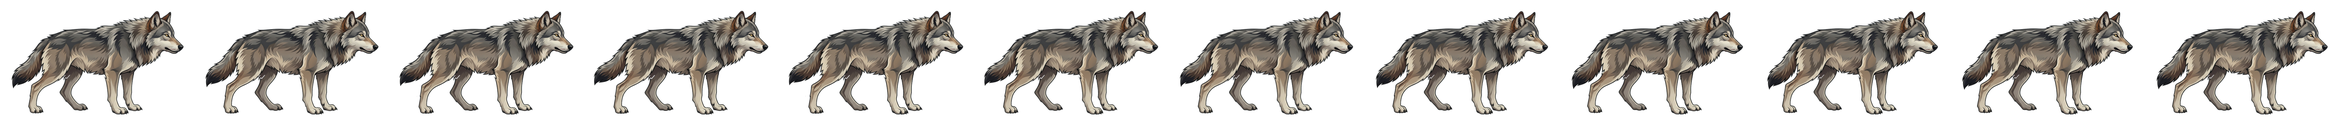
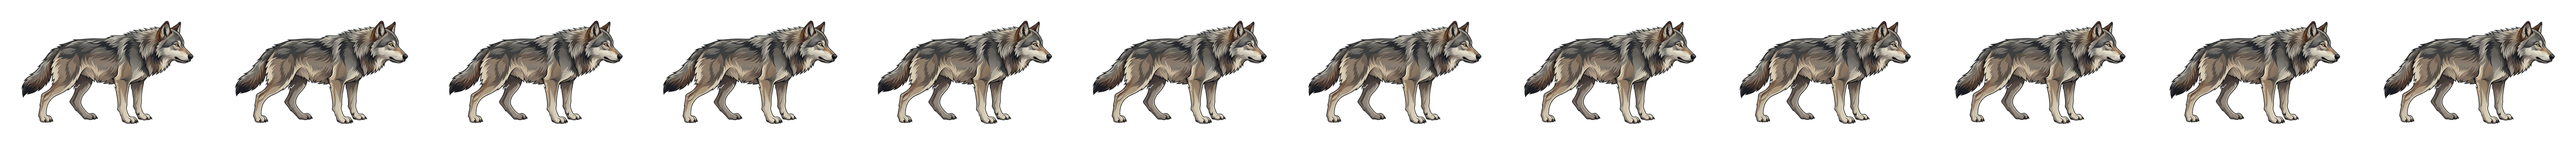
灰狼試作：撲咬加強（關鍵影格、蓄力更深、3 格撲出、壓縮伸展、殘影、咬中甩頭）；嘴裡改深褐並對準下顎，閉嘴不再露紅
Claude-Session: https://claude.ai/code/session_01HkqM82v9towmCBuEomSQC3

Changed region(s): [[0.0, 0.0938, 0.9983, 0.9062]]

diff --git a/arts/art_illustrated_test_2026-10-13/rig.py b/arts/art_illustrated_test_2026-10-13/rig.py
@@ -15,7 +15,8 @@ from PIL import Image, ImageDraw
 
 HERE = os.path.dirname(os.path.abspath(__file__))
 SCALE = 0.5
-PAD = 60          # 畫布四周的空間（原尺寸像素），撲咬往前衝時不會被切掉
+PAD = 120          # 畫布四周的空間（原尺寸像素），撲咬往前衝時不會被切掉
+STRETCH_CENTER = (560, 600)  # 腳底附近，伸縮時腳不會離地太多
 GRID = 14         # 網格間距（原尺寸像素）
 
 
@@ -43,7 +44,11 @@ def world_mats(bones, pose):
     for b in bones:  # 骨頭依父子順序排列
         local = rot_about(b.a, pose.get(b.name, 0.0))
         if b.parent is None:
-            mats[b.name] = translate(pose.get("root_dx", 0.0), pose.get("root_dy", 0.0)) @ local
+            # 壓縮與伸展：以身體中心為準縮放（root_sx 水平、root_sy 垂直）
+            cx, cy = STRETCH_CENTER
+            sx, sy = pose.get("root_sx", 1.0), pose.get("root_sy", 1.0)
+            stretch = translate(cx, cy) @ np.diag([sx, sy, 1.0]) @ translate(-cx, -cy)
+            mats[b.name] = translate(pose.get("root_dx", 0.0), pose.get("root_dy", 0.0)) @ stretch @ local
         else:
             mats[b.name] = mats[b.parent] @ local
     return mats
@@ -205,7 +210,7 @@ def wolf_rig(name="wolf_gray"):
         "fh": [(300, 392), (458, 392), (444, 470), (414, 520), (486, 560), (494, 648), (370, 648), (288, 520), (300, 450)],
         "nf": [(566, 384), (672, 384), (668, 500), (690, 560), (722, 585), (728, 648), (588, 648), (588, 480)],
         "ff": [(672, 384), (792, 384), (772, 500), (822, 648), (728, 648), (722, 585), (700, 560), (672, 500)],
-        "jaw": [(940, 238), (1000, 242), (1046, 238), (1042, 258), (1012, 268), (972, 270), (944, 258)],
+        "jaw": [(944, 240), (975, 247), (1005, 251), (1035, 249), (1048, 245), (1042, 258), (1010, 270), (985, 270), (958, 263), (944, 254)],
     }
 
     def mask_of(poly):
@@ -252,9 +257,11 @@ def wolf_rig(name="wolf_gray"):
     # 身體層：下顎的位置換成嘴裡的深色，下顎張開時才看得到
     body_img = img.copy()
     d = ImageDraw.Draw(body_img)
-    d.polygon([(944, 240), (1040, 240), (1030, 252), (990, 258), (950, 254)], fill=(70, 22, 24, 255))
-    for x in (1010, 1024):
-        d.polygon([(x, 240), (x + 6, 240), (x + 3, 250)], fill=(240, 236, 226, 255))
+    # 嘴裡：只填在下顎原本的位置（閉嘴時完全被下顎蓋住），顏色是接近黑的深褐，上排有兩顆犬齒
+    d.polygon([(946, 242), (975, 248), (1005, 252), (1035, 250), (1044, 247), (1038, 257), (1010, 267), (986, 267), (960, 261), (946, 253)],
+              fill=(34, 26, 25, 255))
+    for x in (1012, 1026):
+        d.polygon([(x, 249), (x + 6, 249), (x + 2, 259)], fill=(236, 230, 214, 255))
     body_small = np.asarray(body_img.resize(small.shape[1::-1], Image.LANCZOS)).astype(float) / 255.0
 
     head_only = lambda p: np.clip((p[:, 0] - 770) / 40, 0, 1)
@@ -323,28 +330,48 @@ def pose_walk(t):
     return q
 
 
+def keyframes(keys, t):
+    """keys：[(時間, 姿勢), ...]；兩個關鍵影格之間用緩入緩出內插。"""
+    for (t0, p0), (t1, p1) in zip(keys, keys[1:]):
+        if t0 <= t <= t1:
+            k = (t - t0) / (t1 - t0) if t1 > t0 else 1.0
+            k = k * k * (3 - 2 * k)
+            names = set(p0) | set(p1)
+            dv = lambda n: 1.0 if n in ("root_sx", "root_sy") else 0.0
+            return {n: p0.get(n, dv(n)) + (p1.get(n, dv(n)) - p0.get(n, dv(n))) * k for n in names}
+    return dict(keys[-1][1])
+
+
+def _legs(hind_t, hind_s, hind_f, front_u, front_l, front_p, far_k=0.85):
+    return {"nh_thigh": hind_t, "nh_shin": hind_s, "nh_foot": hind_f,
+            "fh_thigh": hind_t * far_k, "fh_shin": hind_s * far_k, "fh_foot": hind_f * far_k,
+            "nf_upper": front_u, "nf_lower": front_l, "nf_paw": front_p,
+            "ff_upper": front_u * far_k, "ff_lower": front_l * far_k, "ff_paw": front_p * far_k}
+
+
+BITE_KEYS = [
+    (0.00, {}),
+    # 蓄力：重心壓低往後、頭壓低盯著前方、尾巴放低
+    (0.32, dict(root_dx=-26, root_dy=16, root_sx=0.95, root_sy=1.0, hips=4, chest=7, head=10, tail1=-12, tail2=-6,
+                **_legs(-12, 22, -12, 16, -24, 8))),
+    # 起跳：後腿蹬直往後、前腿往前伸、前身抬高、嘴張大
+    (0.44, dict(root_dx=60, root_dy=-26, root_sx=1.12, root_sy=0.94, hips=-12, chest=-10, head=-4, jaw=40, tail1=-18, tail2=-12,
+                **_legs(34, -24, 34, -60, 24, 32))),
+    # 咬中：衝到最前、嘴猛然合上、頭往下壓
+    (0.54, dict(root_dx=104, root_dy=-4, root_sx=1.05, root_sy=0.97, hips=-6, chest=-2, head=8, jaw=2, tail1=-14, tail2=-8,
+                **_legs(26, -16, 22, -30, 12, 12))),
+    # 咬住甩頭
+    (0.64, dict(root_dx=98, root_dy=0, hips=-4, chest=0, head=-6, jaw=0, tail1=-10, tail2=-4,
+                **_legs(20, -10, 14, -20, 8, 6))),
+    (0.72, dict(root_dx=100, root_dy=0, hips=-4, chest=0, head=6, jaw=0, tail1=-8,
+                **_legs(18, -8, 12, -18, 6, 4))),
+    (1.00, {}),
+]
+
+
 def pose_bite(t):
-    """撲咬：先往後蓄力、再往前撲、張嘴咬、收回。"""
-    if t < 0.3:          # 蓄力：重心後移、頭壓低
-        k = t / 0.3
-        return {"root_dx": -14 * k, "root_dy": 6 * k, "hips": 2 * k, "head": 10 * k, "chest": 3 * k,
-                "nh_thigh": -6 * k, "fh_thigh": -6 * k, "nh_shin": 10 * k, "fh_shin": 10 * k,
-                "nf_upper": 8 * k, "ff_upper": 8 * k, "nf_lower": -8 * k, "ff_lower": -8 * k, "tail1": -6 * k}
-    if t < 0.6:          # 撲出：前身抬起前伸、嘴張開
-        k = (t - 0.3) / 0.3
-        e = math.sin(k * math.pi / 2)
-        return {"root_dx": -14 + 70 * e, "root_dy": 6 - 16 * e, "hips": 2 - 8 * e, "chest": 3 - 6 * e,
-                "head": 10 - 18 * e, "jaw": 34 * e,
-                "nh_thigh": -6 + 22 * e, "fh_thigh": -6 + 22 * e, "nh_shin": 10 - 16 * e, "fh_shin": 10 - 16 * e,
-                "nh_foot": 20 * e, "fh_foot": 20 * e,
-                "nf_upper": 8 - 48 * e, "ff_upper": 8 - 40 * e, "nf_lower": -8 + 30 * e, "ff_lower": -8 + 26 * e,
-                "nf_paw": 20 * e, "ff_paw": 20 * e, "tail1": -6 - 8 * e, "tail2": -10 * e}
-    k = (t - 0.6) / 0.4  # 咬合後落地收回
-    e = 1 - (1 - k) ** 2
-    b = pose_bite(0.5999)
-    out = {key: v * (1 - e) for key, v in b.items()}
-    out["jaw"] = 34 * max(0.0, 1 - k * 3)
-    return out
+    """撲咬：壓低蓄力 → 3 格內撲出（張大嘴、四肢伸展）→ 咬中猛然合嘴、甩頭 → 收回。"""
+    return keyframes(BITE_KEYS, t)
 
 
 def pose_hurt(t):
@@ -356,7 +383,7 @@ def pose_hurt(t):
             "tail1": 14 * k, "tail2": 18 * k}
 
 
-ACTIONS = {"idle": (pose_idle, 12), "walk": (pose_walk, 12), "bite": (pose_bite, 10), "hurt": (pose_hurt, 8)}
+ACTIONS = {"idle": (pose_idle, 12), "walk": (pose_walk, 12), "bite": (pose_bite, 16), "hurt": (pose_hurt, 8)}
 
 
 def tint(im, rgb, amount):
@@ -367,6 +394,21 @@ def tint(im, rgb, amount):
     mixed = Image.blend(im.convert("RGBA"), flat, amount)
     mixed.putalpha(a)
     return mixed
+
+
+def add_trails(frames, idx, fades=(0.38, 0.16)):
+    """撲出的那幾格，把前兩格淡淡疊在後面當殘影。"""
+    out = list(frames)
+    for i in idx:
+        base = Image.new("RGBA", frames[i].size, (0, 0, 0, 0))
+        for back, f in zip((2, 1), reversed(fades)):
+            if i - back >= 0:
+                g = frames[i - back].copy()
+                g.putalpha(g.split()[3].point(lambda v, f=f: int(v * f)))
+                base.alpha_composite(g)
+        base.alpha_composite(frames[i])
+        out[i] = base
+    return out
 
 
 def main(name="wolf_gray"):
@@ -383,6 +425,8 @@ def main(name="wolf_gray"):
             if act == "hurt":
                 im = tint(im, (200, 40, 30), 0.35 * max(0.0, 1 - t * 3))
             frames.append(im)
+        if act == "bite":
+            frames = add_trails(frames, [i for i in range(n) if 0.36 <= i / n <= 0.56])
         w, h = frames[0].size
         sheet = Image.new("RGBA", (w * n, h))
         for i, f in enumerate(frames):

diff --git a/arts/art_illustrated_test_2026-10-13/gif_preview.py b/arts/art_illustrated_test_2026-10-13/gif_preview.py
@@ -8,7 +8,7 @@ HERE = os.path.dirname(os.path.abspath(__file__))
 def frames(name, act):
     sheet = Image.open(os.path.join(HERE, "anim", f"{name}_{act}.png"))
     h = sheet.height
-    w = 593
+    w = Image.open(os.path.join(HERE, "anim", f"{name}_rest.png")).width
     return [sheet.crop((i * w, 0, (i + 1) * w, h)) for i in range(sheet.width // w)]
 
 
@@ -37,7 +37,7 @@ def main(name="wolf_gray"):
     for f, x in seq:
         fr = bg.copy()
         im = f.resize((int(f.width * k), int(f.height * k)), Image.LANCZOS)
-        fr.alpha_composite(im, (int(x), 536 - im.height - 18))
+        fr.alpha_composite(im, (int(x), 536 - im.height + 12))
         out.append(fr.convert("RGB").quantize(colors=255, method=Image.Quantize.MEDIANCUT, dither=Image.Dither.NONE))
     out[0].save(os.path.join(HERE, "anim", f"{name}_scene.gif"), save_all=True, append_images=out[1:], duration=83, loop=0)
 
